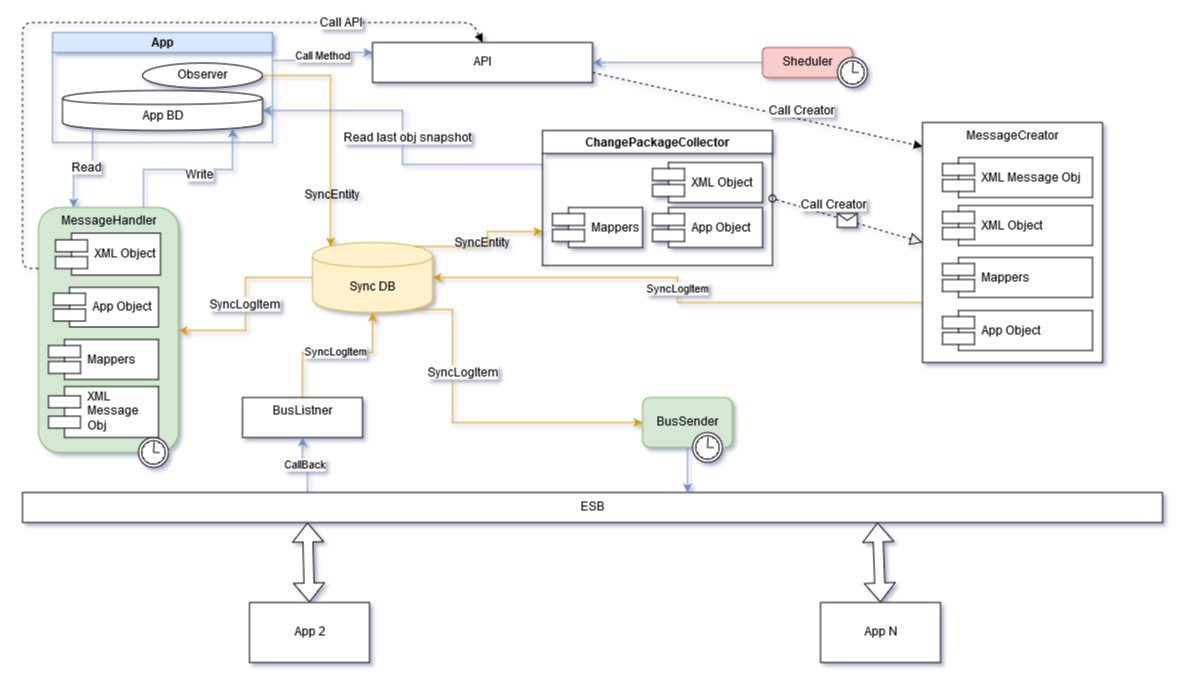
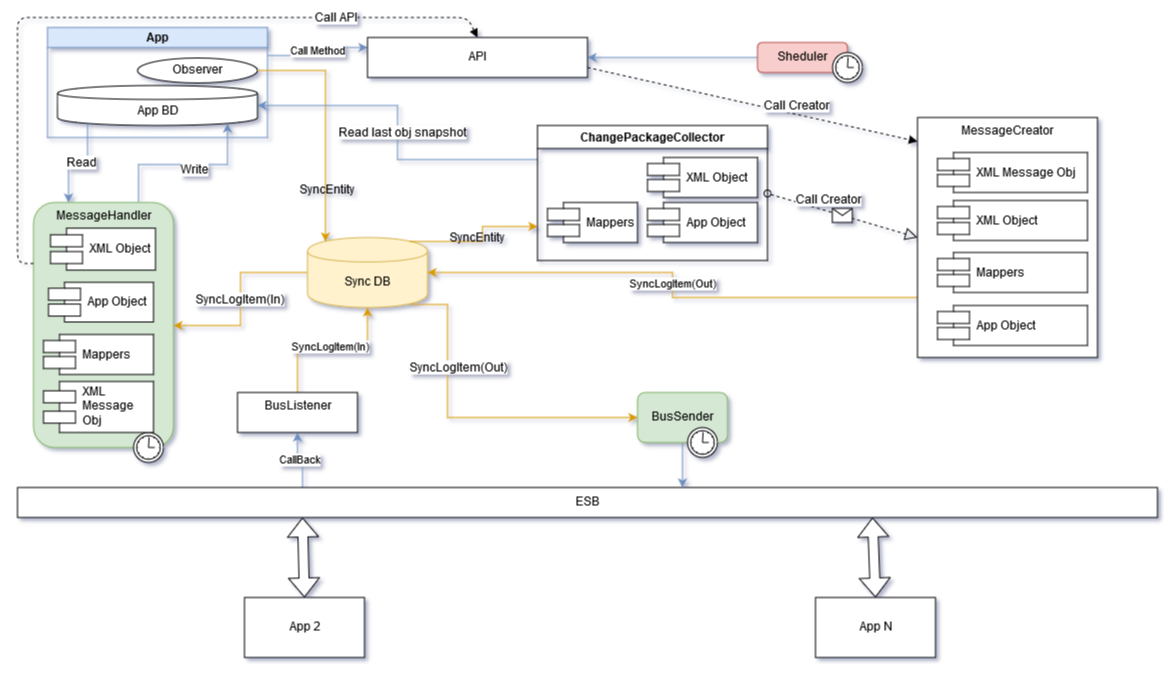
Правки

Changed region(s): [[0.0, 0.0, 1.0, 0.997]]

diff --git a/text/0000-Sync-Adapter.md b/text/0000-Sync-Adapter.md
@@ -45,15 +45,15 @@
 > * API - Web API содержит методы управляющие поведением адаптера.
 > * Change Package Collector - Упаковщик фактов-изменений SyncEntity в сообщения для шины SyncLogItem. Содержит логику формирования пакетов сообщений.
 > * MessageCreator - Формирует для шины наборы сообщений различных типов.
-> * BusListner - Сохраняет полученные по обратному вызову сообщения от шины в SyncLogItem.
+> * BusListener - Сохраняет полученные по обратному вызову сообщения от шины в SyncLogItem.
 > 2. Консольное приложение BusSender - отвечает, за обработку подготовленных для отправки SyncLogItem и отправку сообщений в шину.
 > 3. Консольное приложение MessageHandler - отвечает, за обработку полученных SyncLogItem.
 > 4. Sheduler - средство для обращения к Web API для вызова синхронизации по расписанию.
 > 5. Адаптер имеет отдельную от приложения БД, которая является связующим звеном между различными модулями и содержит таблицы:
-	> * ICS_SyncEntity, ICS_SyncSetting, ICS_SyncSubSetting, ICS_SyncSystem, ICS_SyncType - обеспечивают работу IIS.Synchronizer,
-	> * SyncLogItem - таблица для ведения журнала синхронизации 
-	> * Log - для ведения лога работы модулей,
-	> * KeyMap - таблица соответствия, для хранения возникающих коллизий ключей.
+> * ICS_SyncEntity, ICS_SyncSetting, ICS_SyncSubSetting, ICS_SyncSystem, ICS_SyncType - обеспечивают работу IIS.Synchronizer,
+> * SyncLogItem - таблица для ведения журнала синхронизации 
+> * Log - для ведения лога работы модулей,
+> * KeyMap - таблица соответствия, для хранения возникающих коллизий ключей.
 
 #### Описание работы модулей адаптера
 **Изменение в прикладном приложении-источнике App**
@@ -91,7 +91,7 @@
 **MessageCreator**
 > MessageCreator - реализует паттерн Фабричный метод и создает XML-сообщения различного типа. После создания пакета формируется XML-сообщение, создаётся SyncLogItem со статусом Prepared и в DataSet сохраняется XML-сообщение. Для каждого взаимодействия между приложениями создаём свой набор типов сообщений с префиксами направления взаимодействия, вида Toприёмник_fromИсточник_НазваниеЗапроса.
 
-**BusListner**
+**BusListener**
 > При получении сообщения MessageFromESB создаётся запись SyncLogItem со статусом Prepared, в DataSet записывается полученное сообщение, на этом обработчик сообщения шины AcceptMessage заканчивает работу.
 
 **BusSender** 
